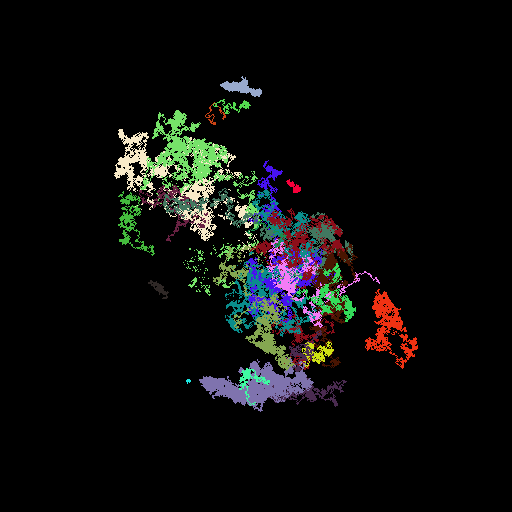
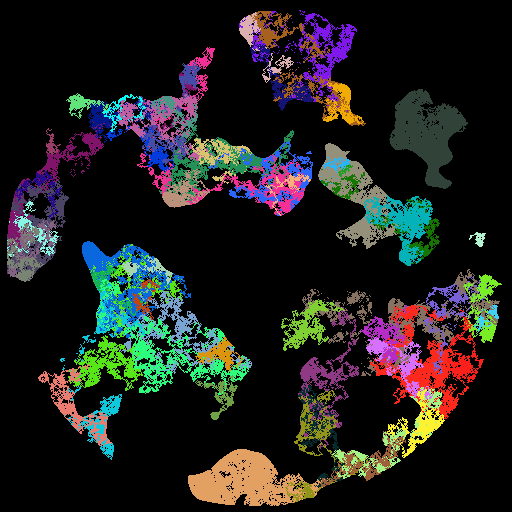
There is now proper galaxy generation

diff --git a/roguelike/Game.cpp b/roguelike/Game.cpp
@@ -257,21 +257,6 @@ void Game::update_characters() {
 }
 
 void Game::startup_new_game() {
-	int num = 1;
-	for (auto& f : std::experimental::filesystem::directory_iterator("Data\\Save")) {
-		num++;
-	}
-	std::string gname = "Game " + std::to_string(num);
-	std::experimental::filesystem::create_directory("Data\\Save\\" + gname);
-	_savegame_directory = "Data\\Save\\" + gname;
-	GameObjects::savegame_path = _savegame_directory;
-	
-	std::experimental::filesystem::create_directory(_savegame_directory + "\\galaxy");
-	std::experimental::filesystem::create_directory(_savegame_directory + "\\starsector");
-	std::experimental::filesystem::create_directory(_savegame_directory + "\\solarsystem");
-	std::experimental::filesystem::create_directory(_savegame_directory + "\\world");
-	std::experimental::filesystem::create_directory(_savegame_directory + "\\surface");
-	
 	destroy_main_menu();
 	std::cout << "Size of one actor: " << sizeof(Actor) << std::endl;
 	
@@ -296,6 +281,21 @@ void Game::startup_new_game() {
 	delete _loadingscreen;
 	delete _gui_map;
 	delete _log;
+
+	int num = 1;
+	for (auto& f : std::experimental::filesystem::directory_iterator("Data\\Save")) {
+		num++;
+	}
+	std::string gname = "Game " + std::to_string(num);
+	std::experimental::filesystem::create_directory("Data\\Save\\" + gname);
+	_savegame_directory = "Data\\Save\\" + gname;
+	GameObjects::savegame_path = _savegame_directory;
+
+	std::experimental::filesystem::create_directory(_savegame_directory + "\\galaxy");
+	std::experimental::filesystem::create_directory(_savegame_directory + "\\starsector");
+	std::experimental::filesystem::create_directory(_savegame_directory + "\\solarsystem");
+	std::experimental::filesystem::create_directory(_savegame_directory + "\\world");
+	std::experimental::filesystem::create_directory(_savegame_directory + "\\surface");
 
 	_log = new Log;
 	_status = new Status(_player, &_time);

diff --git a/roguelike/Level.cpp b/roguelike/Level.cpp
@@ -201,7 +201,7 @@ void Level::generate_space_obj(std::uniform_int_distribution<int> r, LEVEL_TYPE 
 		TCODImage im = TCODImage::TCODImage("Data\\Galaxy1.png");
 		for (int x = 0; x < _width; x++) {
 			for (int y = 0; y < _height; y++) {
-				if (im.getPixel(x, y).getValue() > 0) {
+				if (_noise.GetNoise(x, y) > 0 && std::pow(x - _width / 2, 2) + std::pow(y - _height / 2, 2) < std::pow(250, 2)) {
 					if (r(Random::generator) == 1) {
 						new StarSector(x, y, 0);
 					}
@@ -210,7 +210,7 @@ void Level::generate_space_obj(std::uniform_int_distribution<int> r, LEVEL_TYPE 
 		}
 		for (int x = 0; x < _width; x++) {
 			for (int y = 0; y < _height; y++) {
-				if (im.getPixel(x, y).getValue() > 0) {
+				if (_noise.GetNoise(x, y) > 0 && std::pow(x - _width / 2, 2) + std::pow(y - _height / 2, 2) < std::pow(250, 2)) {
 					_map[x][y].back()->set_bcolor(Random::one_to_sixty_four(Random::generator), 0, Random::one_to_sixty_four(Random::generator));
 				}
 			}
